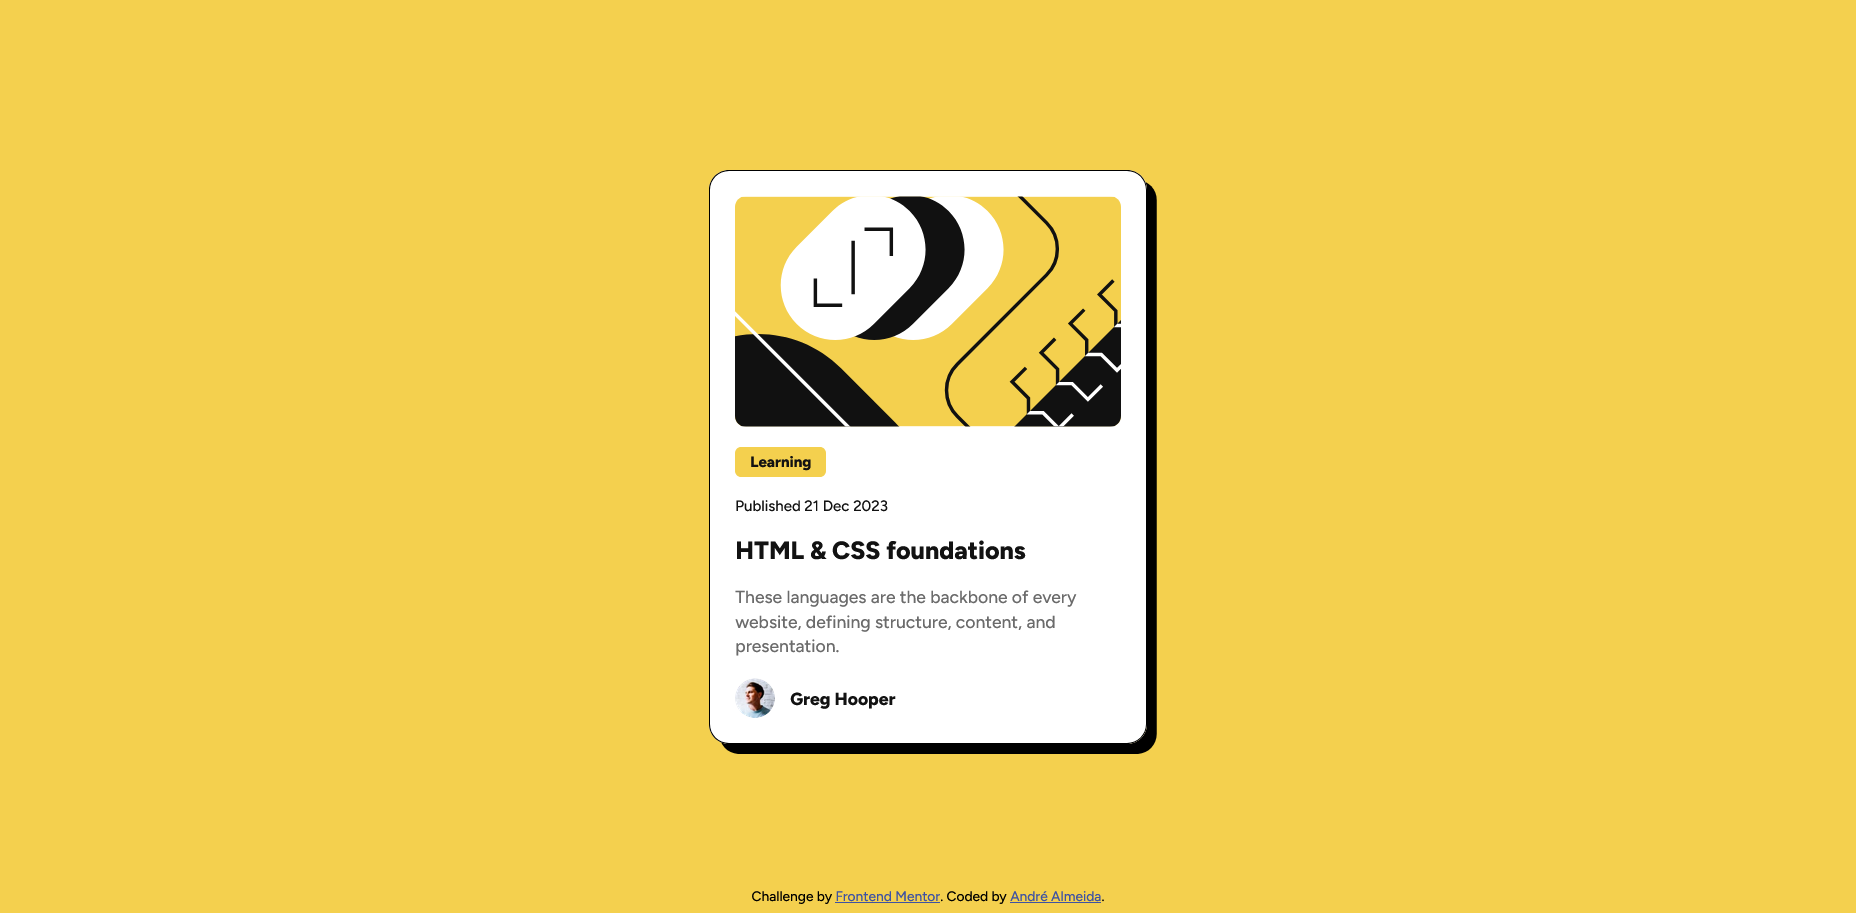
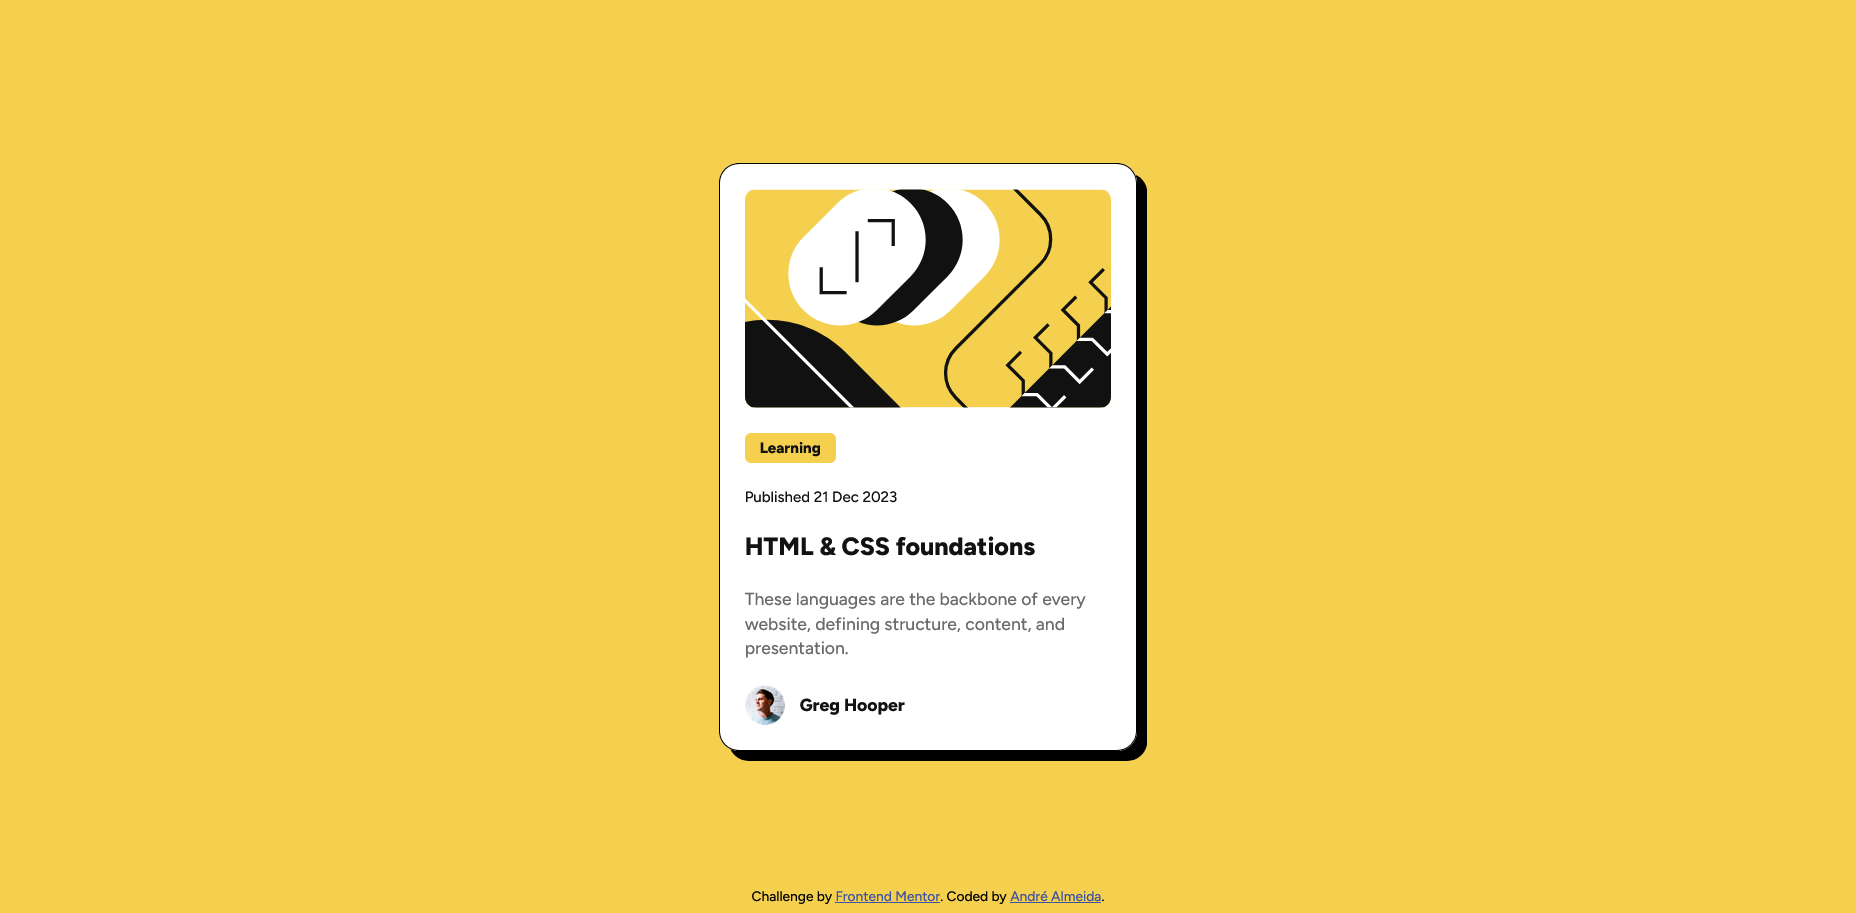
card correction

Changed region(s): [[0.375, 0.1533, 0.625, 0.8587]]

diff --git a/style.css b/style.css
@@ -19,11 +19,11 @@ body {
   border: 1px solid black;
   border-radius: 1rem;
   box-shadow: 8px 8px 0px black;
-  max-width: 350px;
+  max-width: 335px;
   padding: 1.25rem;
   display: flex;
   flex-direction: column;
-  gap: 1rem;
+  gap: 1.25rem;
 }
 
 .card img {

diff --git a/README.md b/README.md
@@ -24,7 +24,7 @@ Users should be able to:
 
 ### Screenshot
 
-![Screenshot of my Resolution!](image.png)
+![Screenshot of my Resolution!](image-1.png)
 
 ### Links
 
